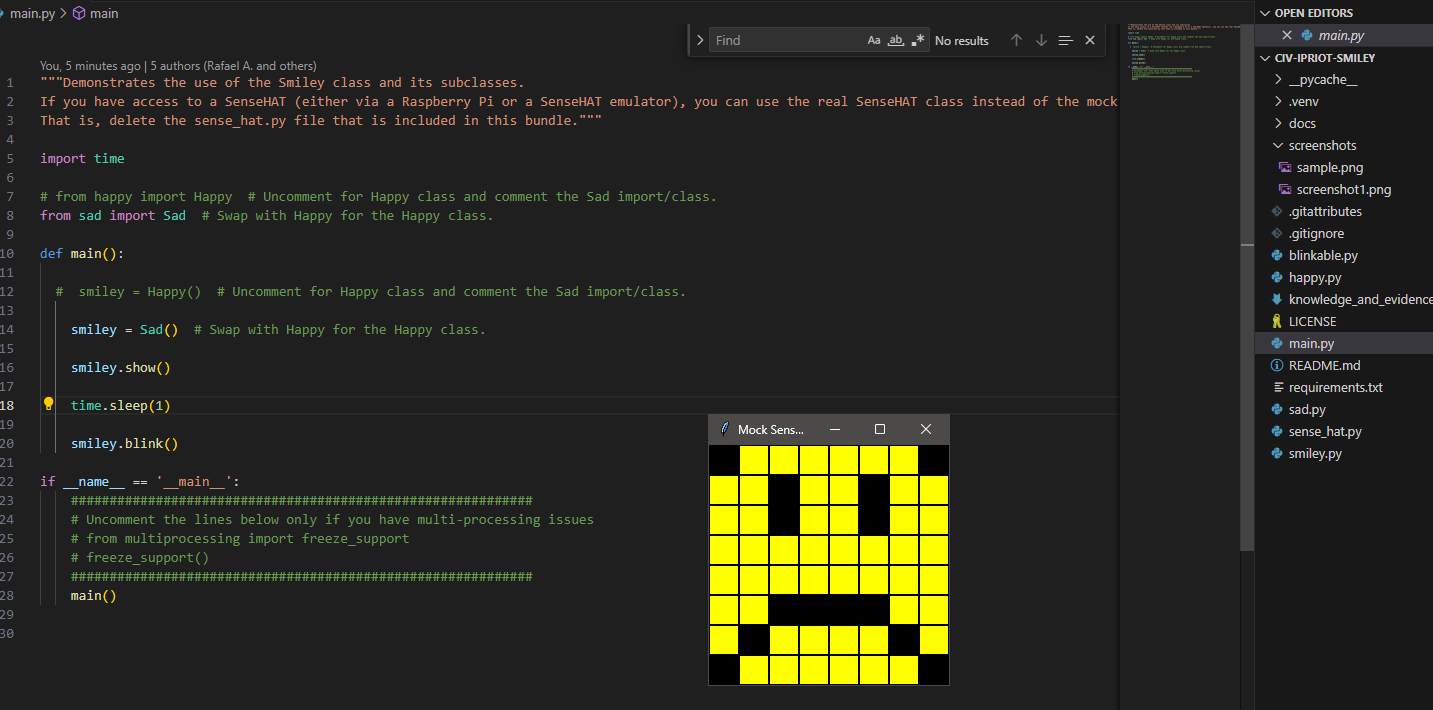
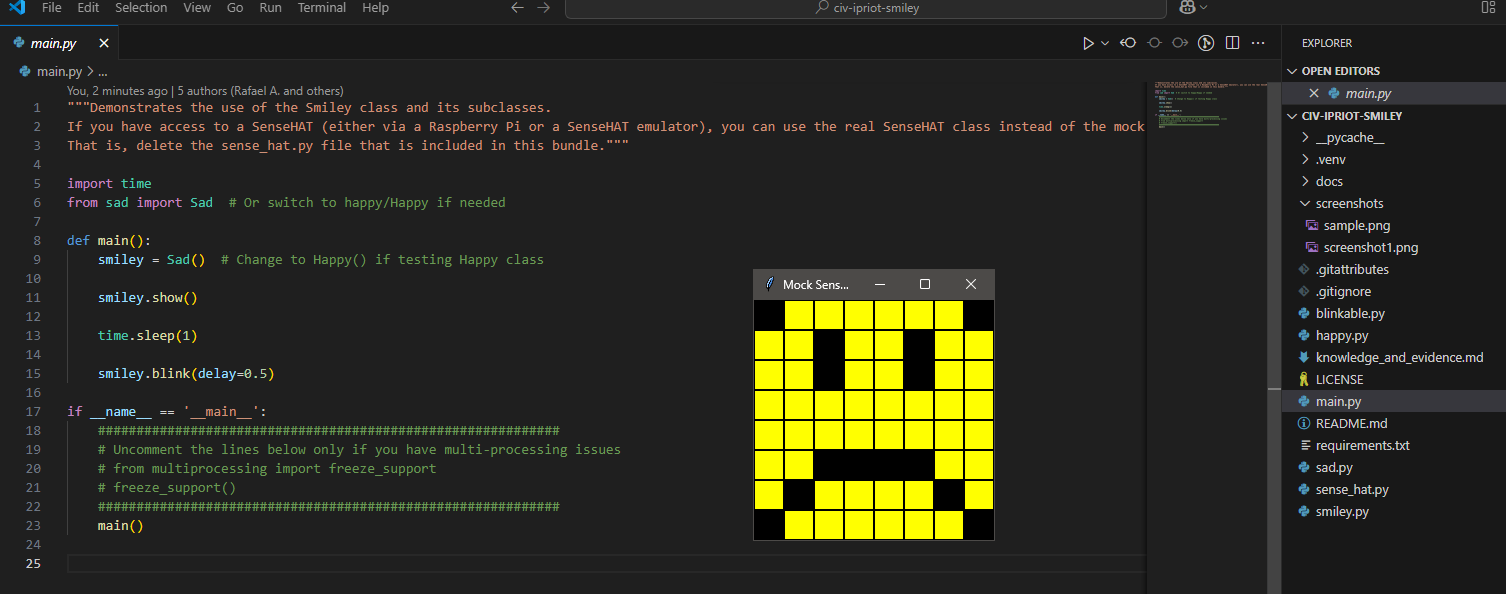
style: substitute sad_blink img

Changed region(s): [[0.0, 0.0, 1.0, 1.0], [0.4913, 0.4545, 0.6755, 0.9697], [0.0, 0.0, 0.2763, 0.0303]]

diff --git a/main.py b/main.py
@@ -3,21 +3,16 @@ If you have access to a SenseHAT (either via a Raspberry Pi or a SenseHAT emulat
 That is, delete the sense_hat.py file that is included in this bundle."""
 
 import time
-
-# from happy import Happy  # Uncomment for Happy class and comment the Sad import/class.
-from sad import Sad  # Swap with Happy for the Happy class.
+from sad import Sad  # Or switch to happy/Happy if needed
 
 def main():
-
-  #  smiley = Happy()  # Uncomment for Happy class and comment the Sad import/class.
-
-    smiley = Sad()  # Swap with Happy for the Happy class.
+    smiley = Sad()  # Change to Happy() if testing Happy class
 
     smiley.show()
 
     time.sleep(1)
 
-    smiley.blink()
+    smiley.blink(delay=0.5)
 
 if __name__ == '__main__':
     ############################################################
